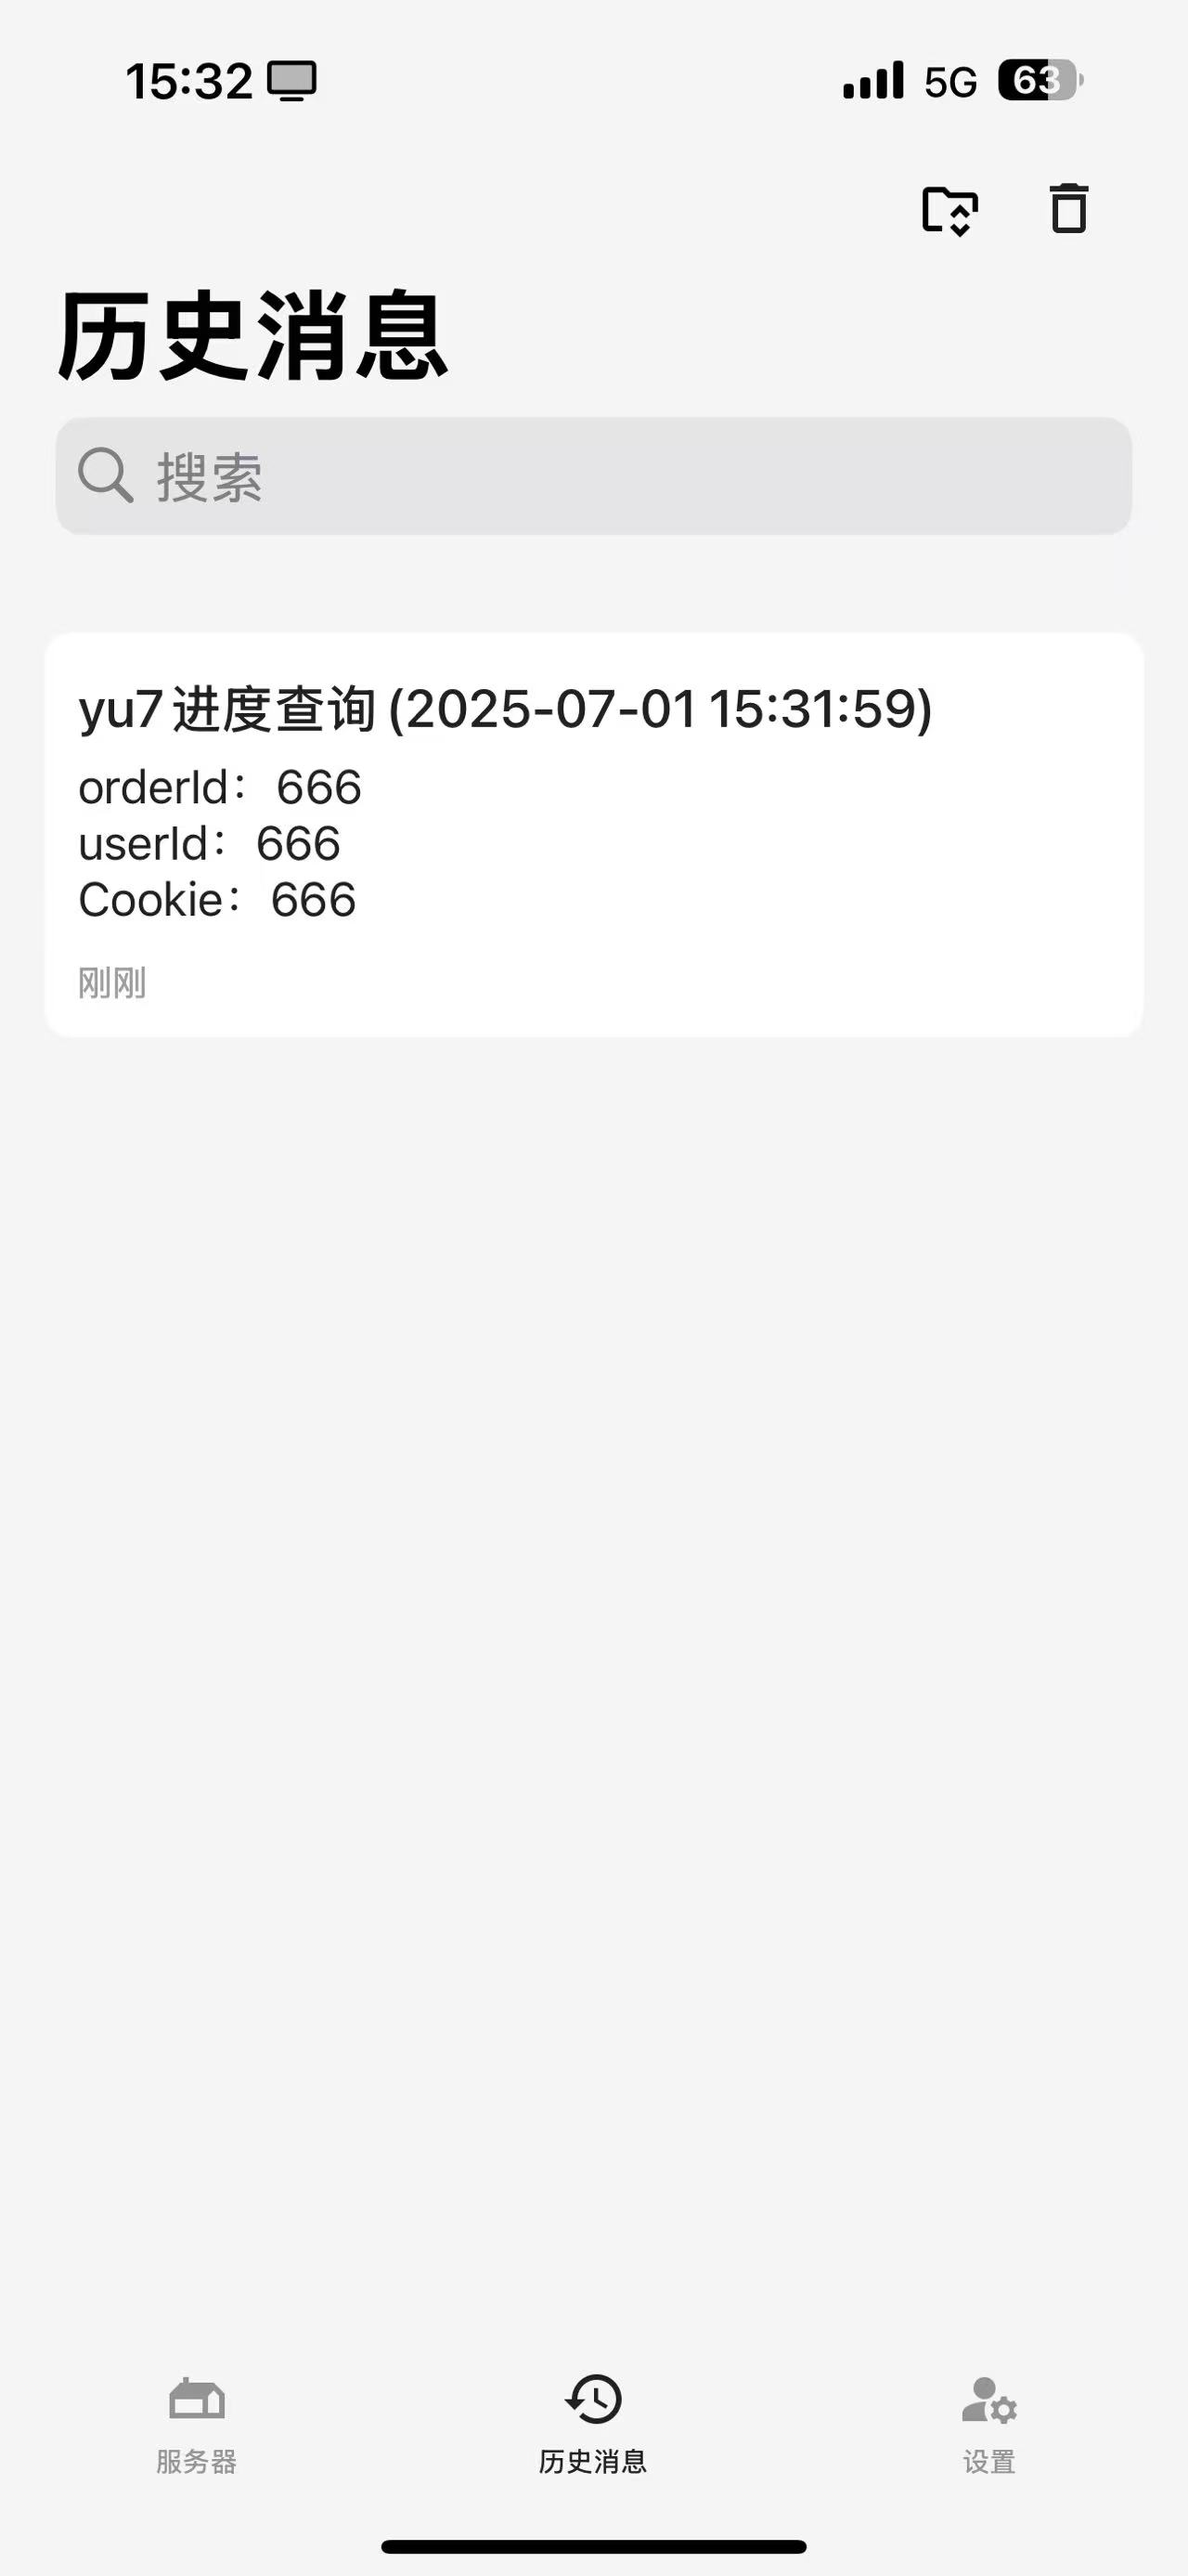
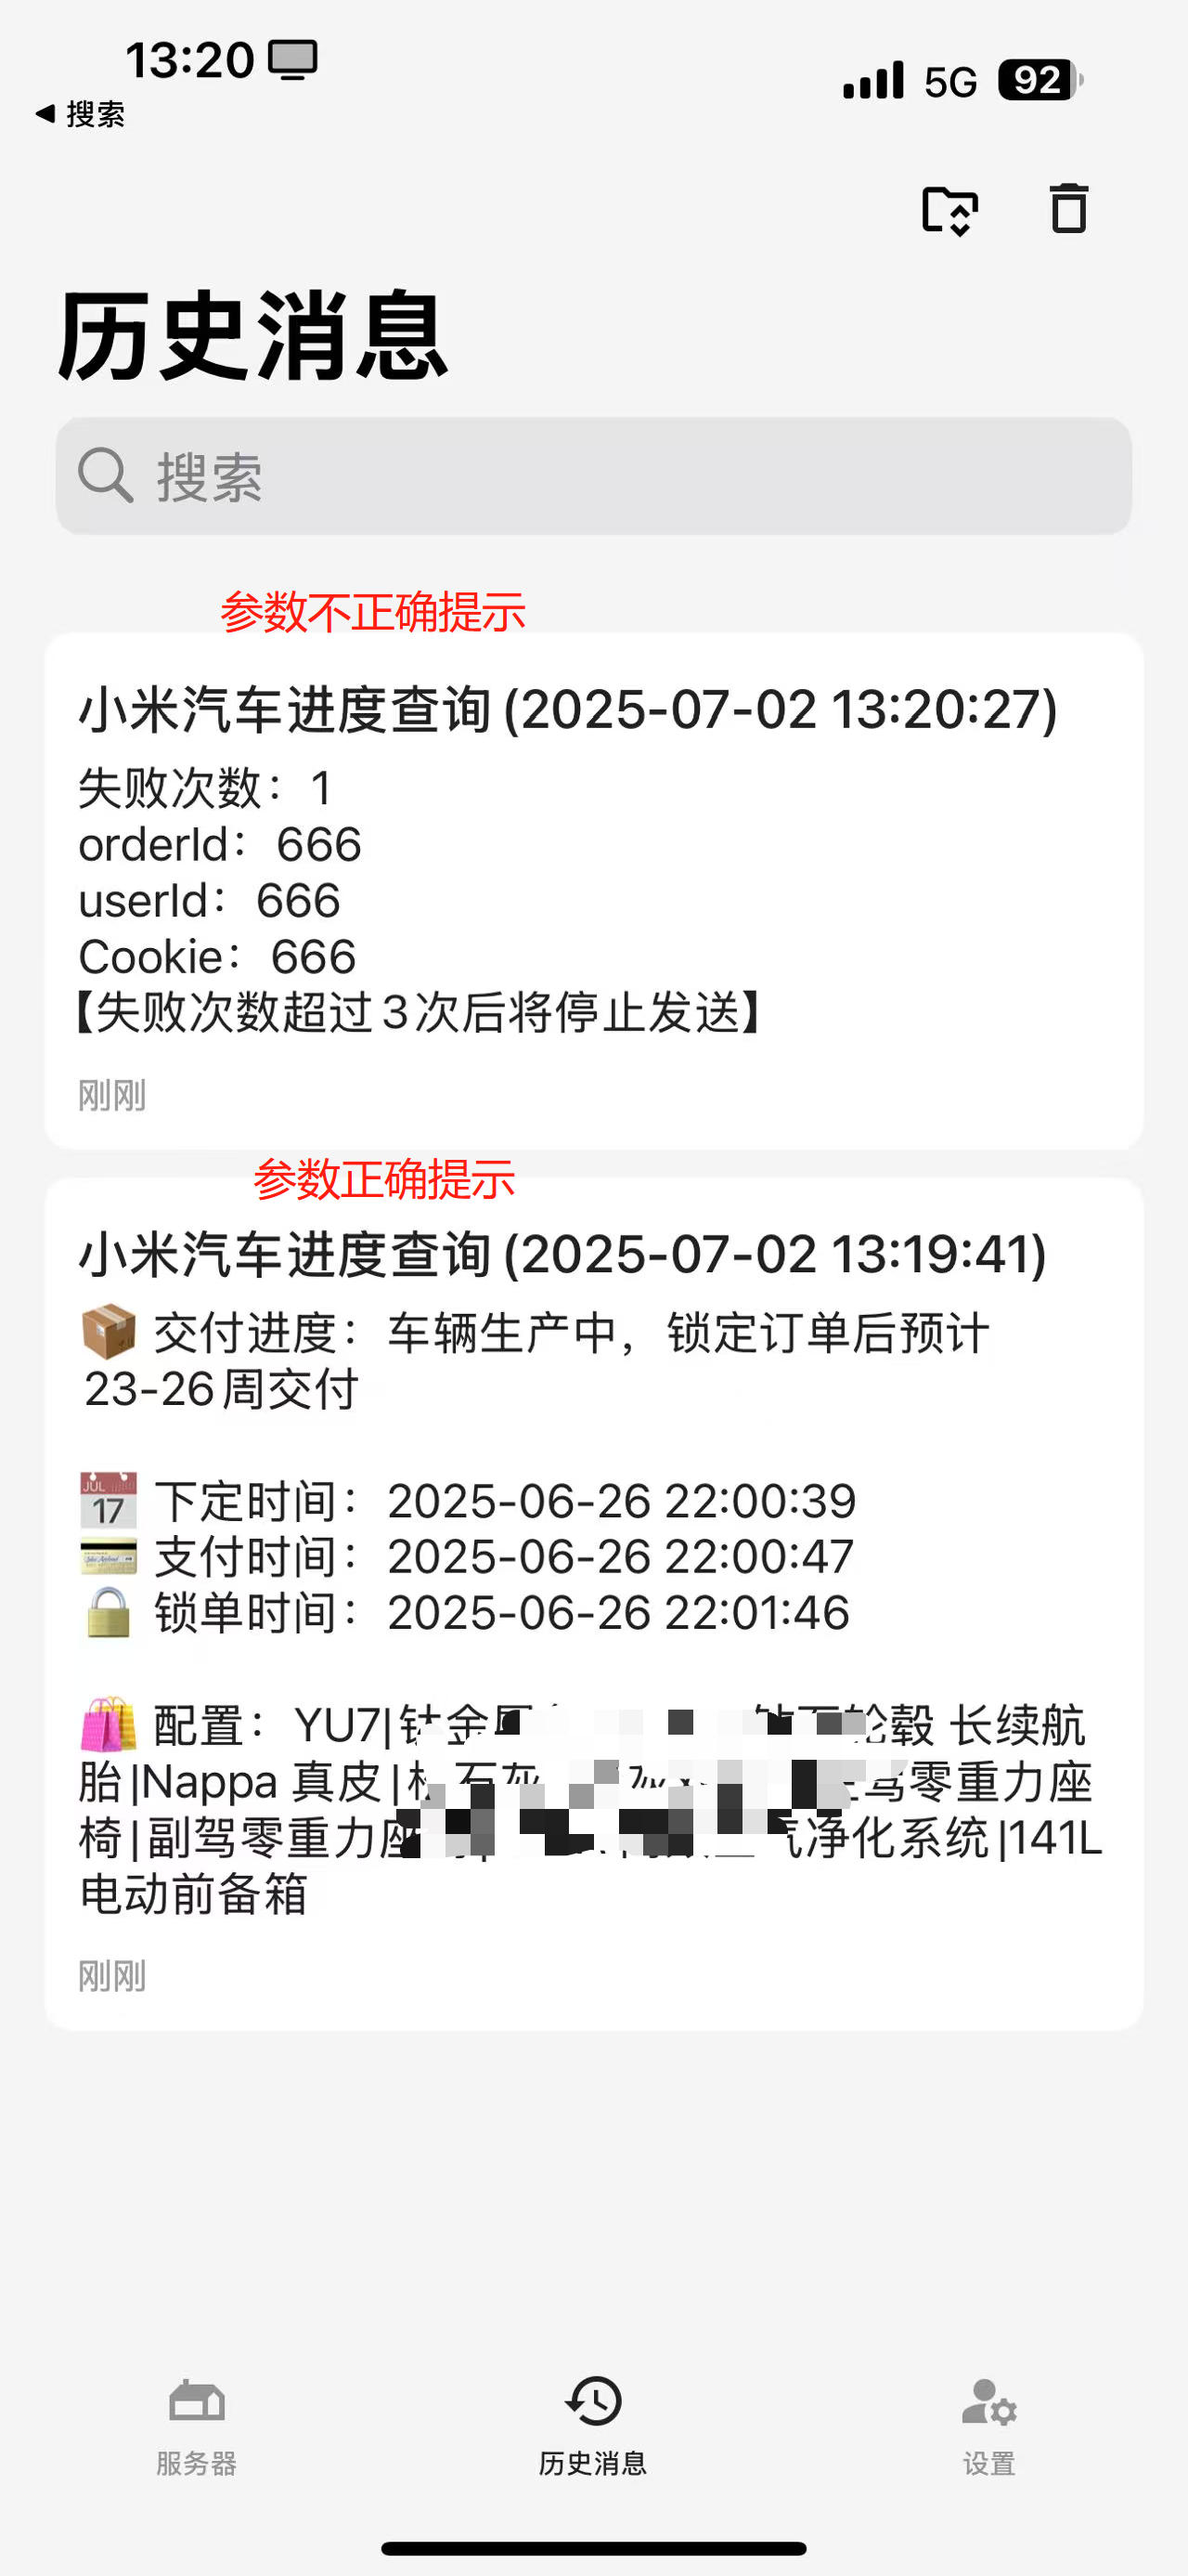
feat: 优化界面 新增icon和emoji

diff --git a/yu7_notify.py b/yu7_notify.py
@@ -21,7 +21,6 @@ def load_config():
             args.userId,
             args.cookie,
             args.device_token,
-            config["api"]["interval"],
             config["api"]["error_times"],
         )
 
@@ -32,7 +31,6 @@ def load_config():
             config["api"]["userId"],
             config["api"]["Cookie"],
             config["api"]["device_token"],
-            config["api"]["interval"],
             config["api"]["error_times"],
         )
     except:
@@ -59,6 +57,7 @@ def get_delivery_time(orderId, userId, Cookie):
 
     response = requests.post(url, data=json.dumps(payload), headers=headers)
     data = response.json().get("data", {})
+    logo_link = data.get("backdropPictures", {}).get("backdropPicture", None)
     statusInfo = data.get("statusInfo", {})
     orderTimeInfo = data.get("orderTimeInfo", {})
     orderStatusName = statusInfo.get("orderStatusName")
@@ -76,16 +75,17 @@ def get_delivery_time(orderId, userId, Cookie):
     add_time = orderTimeInfo.get("addTime")
     pay_time = orderTimeInfo.get("payTime")
     lock_time = orderTimeInfo.get("lockTime")
-
-    text = f"【{orderStatusName}：{delivery_time}】\n下定时间：{add_time}\n支付时间：{pay_time}\n锁单时间：{lock_time}"
-
+    goods_names = "|".join(
+        item.get("goodsName", "") for item in data.get("orderItem", [])
+    )
+    text = f"📦 交付进度：{orderStatusName}，{delivery_time}\n\n📅 下定时间：{add_time}\n💳 支付时间：{pay_time}\n🔒 锁单时间：{lock_time}\n\n🛍 配置：{goods_names}"
     # 保存交付时间到文件
     save_delivery_time(delivery_time)
 
-    return delivery_time, text
+    return delivery_time, text, logo_link
 
 
-def save_delivery_time(delivery_time, interval="5", error_times=0):
+def save_delivery_time(delivery_time, error_times=0):
     # 先加载当前的配置
     config = toml.load(config_path)
     if args.cookie:
@@ -93,7 +93,7 @@ def save_delivery_time(delivery_time, interval="5", error_times=0):
         config["api"]["userId"] = ""
         config["api"]["Cookie"] = ""
         config["api"]["device_token"] = ""
-        config["api"]["interval"] = args.interval if args.interval else interval
+
     # 更新 deliveryTimeLatest
     config["api"]["deliveryTimeLatest"] = delivery_time
     config["api"]["error_times"] = error_times
@@ -115,7 +115,10 @@ def load_delivery_time():
     )  # 获取 deliveryTimeLatest 的值，默认为 None
 
 
-def send_bark_message(token, message):
+def send_bark_message(token, message, logo_link=None):
+    icon_link = "https://upload.wikimedia.org/wikipedia/commons/4/4f/Xiaomi_EV_New.jpg"
+    if logo_link:
+        icon_link = logo_link
     current_time = datetime.now().strftime("%Y-%m-%d %H:%M:%S")
     url = f"https://api.day.app/{token}"
     headers = {
@@ -124,8 +127,8 @@ def send_bark_message(token, message):
 
     data = {
         "body": message,
-        "title": f"yu7进度查询({current_time})",
-        "icon": "https://upload.wikimedia.org/wikipedia/commons/4/4f/Xiaomi_EV_New.jpg",
+        "title": f"小米汽车交付进度查询({current_time})",
+        "icon": icon_link,
         "group": "test",
         "isArchive": 1,
     }
@@ -141,7 +144,7 @@ def send_bark_message(token, message):
 def main():
     if delivery_time != old_delivery_time:
         save_delivery_time(delivery_time)  # 更新配置文件
-        if send_bark_message(device_token, message):
+        if send_bark_message(device_token, message, logo_link):
             print("消息已发送成功！")
         else:
             print("消息发送失败。")
@@ -161,13 +164,13 @@ if __name__ == "__main__":
         type=str,
         help="Device Token",
     )
-    parser.add_argument("--interval", type=str, help="interval")
+
     args = parser.parse_args()
     # print(args)
-    orderId, userId, Cookie, device_token, interval, error_times = load_config()
+    orderId, userId, Cookie, device_token, error_times = load_config()
 
     old_delivery_time = load_delivery_time()
     # print("old_delivery_time:", old_delivery_time)
-    delivery_time, message = get_delivery_time(orderId, userId, Cookie)
+    delivery_time, message, logo_link = get_delivery_time(orderId, userId, Cookie)
 
     main()
